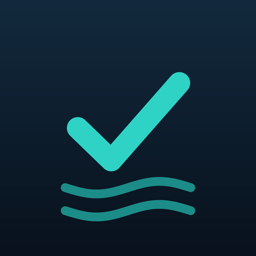
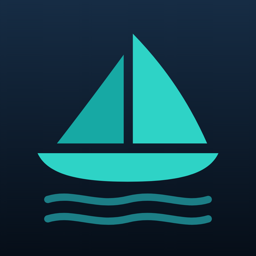
Gizlilik ve KVKK metinleri güncellendi; site ikonu yenilendi
- Anonim istatistik artık varsayılan açık ve Ayarlar'dan kapatılabiliyor;
  KVKK'da hukuki sebep açık rızadan meşru menfaate (m.5/2-f) çevrildi
- Konum ve bildirim izninin ilk açılışta sistem penceresiyle istendiği yazıldı
- Android / Google Play, Google adres çözümleme ve harita servisi eklendi
- Yedekten geri yüklemede ölçüm kimliğinin geri geldiği belirtildi
- Site ikonu ve favicon yeni uygulama ikonuyla değiştirildi

Changed region(s): [[0.125, 0.125, 0.875, 0.9062]]

diff --git a/privacy-tr.html b/privacy-tr.html
@@ -60,7 +60,7 @@
     <li>ViraCheck'te hesap yoktur; kayıt olmanız gerekmez.</li>
     <li>Oluşturduğunuz içerik — kontrol listeleri, seyir defteri, tekne bilgileri — yalnızca cihazınızda saklanır.</li>
     <li>Reklam ağı yoktur; verilerinizi satmıyoruz.</li>
-    <li>Yalnızca <strong>izin verirseniz</strong> anonim kullanım sayıları topluyoruz (kaç tekne, kaç sefer gibi). İsminiz, konumunuz ve defter içeriğiniz buna dahil değildir; izni istediğiniz zaman kapatabilirsiniz (bkz. 6. bölüm).</li>
+    <li>Anonim kullanım sayıları topluyoruz (kaç tekne, kaç sefer gibi). İsminiz, konumunuz ve defter içeriğiniz buna dahil değildir; ölçümü uygulama içinden <strong>istediğiniz zaman kapatabilirsiniz</strong> (bkz. 6. bölüm).</li>
   </ul>
 </div>
 
@@ -72,17 +72,18 @@
   <li>Tekne bilgileri</li>
   <li>Uygulama ayarları</li>
 </ul>
-<p>Bu veriler cihazınızdan çıkmaz; bize iletilmez. Cihazınızda iCloud yedeklemesi açıksa bu içerik Apple'ın yedeğine dahil olabilir ve bu durumda Apple'ın gizlilik politikasına tabi olur.</p>
+<p>Bu veriler cihazınızdan çıkmaz; bize iletilmez. Cihazınızda iCloud ya da Google yedeklemesi açıksa bu içerik Apple'ın veya Google'ın yedeğine dahil olabilir ve bu durumda ilgili şirketin gizlilik politikasına tabi olur.</p>
 
 <h2>2. Konum</h2>
-<p>Rüzgâr, dalga ve seyre uygunluk bilgisini bulunduğunuz mevkiye göre hesaplayabilmek için konum izni isteriz.</p>
+<p>Rüzgâr, dalga ve seyre uygunluk bilgisini bulunduğunuz mevkiye göre hesaplayabilmek için konum izni isteriz. İzin, uygulamayı ilk açtığınızda işletim sisteminin kendi izin penceresiyle sorulur.</p>
 <ul>
   <li>Tam konumunuz cihazınızda saklanmaz; konum geçmişiniz tutulmaz.</li>
   <li>Koordinatlarınız yalnızca tahmin ve koy sorgusu yapılırken Open-Meteo ile OpenStreetMap'e gönderilir.</li>
   <li>Yakındaki koy listesini her seferinde yeniden indirmemek için <strong>yaklaşık</strong> konumunuz (yaklaşık 1 km çözünürlükte) sonuçlarla birlikte cihazınızda önbelleğe alınır. Bu önbellek en fazla 12 bölgeyle sınırlıdır, cihazınızdan çıkmaz ve <em>Verileri sıfırla</em> ile silinir.</li>
-  <li>Bulunduğunuz yerin adını ekranda gösterebilmek için koordinatlar, cihazın işletim sistemi aracılığıyla Apple'ın adres çözümleme servisine iletilir.</li>
+  <li>Bulunduğunuz yerin adını ekranda gösterebilmek için koordinatlar, cihazın işletim sistemi aracılığıyla adres çözümleme servisine iletilir: iPhone ve iPad'de Apple'ın, Android'de Google'ın servisine.</li>
+  <li>Rota ekranındaki harita iPhone ve iPad'de Apple Haritalar, Android'de Google Haritalar ile çizilir. Harita görüntüleri bu servislerden indirildiği için haritanın gösterdiği bölge ilgili şirkete iletilir.</li>
   <li>İzin vermezseniz uygulamanın geri kalanı normal çalışır; yalnızca hava ve deniz durumu gösterilemez.</li>
-  <li>İzni istediğiniz zaman iOS <em>Ayarlar</em> üzerinden geri alabilirsiniz.</li>
+  <li>İzni istediğiniz zaman cihazınızın <em>Ayarlar</em> bölümünden geri alabilirsiniz.</li>
 </ul>
 
 <h2>3. Hava, deniz ve koy verileri</h2>
@@ -98,21 +99,22 @@
   <li>İş ortağına sizi tanımlayan hiçbir bilgi göndermeyiz; yalnızca bağlantının ViraCheck'ten geldiğini belirten bir ortaklık kimliği taşınır. İş ortağı kendi sitesinde çerez kullanabilir.</li>
   <li>Bazı ortaklara (SamBoat) yönlendirme, <strong>Awin</strong> ortaklık ağının alan adı üzerinden geçer; Viravira bağlantıları ise ortağın kendi kısa bağlantı adresinden geçer. Bu adımda ağ, tıklamayı hangi yayıncıya ait olduğunu kaydetmek için kendi çerezini yerleştirebilir. Bu ağlara da sizi tanımlayan bir bilgi göndermeyiz.</li>
   <li>Bu bağlantılardan yapılan kiralamalarda komisyon alabiliriz. Bu, gösterdiğimiz fiyatı değiştirmez.</li>
-  <li>Uygulama tarafında yalnızca <em>kaç kez</em> ve <em>hangi bölge kartına</em> dokunulduğu sayılır; bu da ancak 6. bölümdeki ölçüme izin verdiyseniz gönderilir.</li>
+  <li>Uygulama tarafında yalnızca <em>kaç kez</em> ve <em>hangi bölge kartına</em> dokunulduğu sayılır; bu da 6. bölümdeki ölçüm açıksa gönderilir.</li>
 </ul>
 
 <h2>5. Abonelik ve satın alma</h2>
-<p>ViraCheck Pro aboneliği App Store üzerinden satılır ve <a href="https://www.revenuecat.com">RevenueCat</a> ile yönetilir.</p>
+<p>ViraCheck Pro aboneliği iPhone ve iPad'de App Store, Android'de Google Play üzerinden satılır ve <a href="https://www.revenuecat.com">RevenueCat</a> ile yönetilir.</p>
 <ul>
-  <li>Ödeme bilgileriniz Apple tarafından işlenir ve bize hiçbir zaman iletilmez.</li>
+  <li>Ödeme bilgileriniz Apple ya da Google tarafından işlenir ve bize hiçbir zaman iletilmez.</li>
   <li>RevenueCat, abonelik durumunuzu takip edebilmek için rastgele üretilmiş anonim bir kullanıcı kimliğiyle satın alma bilgilerini (ürün, tarih, yenilenme durumu) ve cihaz türü, ülke gibi teknik bilgileri işler. Adınız veya e-posta adresiniz iletilmez.</li>
   <li>RevenueCat gizlilik politikası: <a href="https://www.revenuecat.com/privacy">revenuecat.com/privacy</a></li>
   <li>Apple Media Services gizlilik politikası: <a href="https://www.apple.com/legal/privacy/data/tr/app-store/">apple.com/legal/privacy/data/tr/app-store</a></li>
+  <li>Google gizlilik politikası: <a href="https://policies.google.com/privacy?hl=tr">policies.google.com/privacy</a></li>
 </ul>
 
 <h2>6. Anonim kullanım istatistiği</h2>
-<p>Uygulamayı nerelerde geliştirmemiz gerektiğini anlayabilmek için anonim kullanım sayıları topluyoruz. <strong>Bu yalnızca sizin onayınızla yapılır:</strong> uygulama bir kez açıkça sorar, "Hayır" derseniz tek bir istek bile gönderilmez ve bir daha sorulmaz.</p>
-<p>İzin verirseniz günde en fazla bir kez şunlar gönderilir:</p>
+<p>Uygulamayı nerelerde geliştirmemiz gerektiğini anlayabilmek için anonim kullanım sayıları topluyoruz. Ölçüm <strong>varsayılan olarak açıktır</strong> ve <strong>istediğiniz zaman kapatabilirsiniz</strong>; kapattığınızda tek bir istek bile gönderilmez.</p>
+<p>Ölçüm açıkken günde en fazla bir kez şunlar gönderilir:</p>
 <ul>
   <li>Kaç tekne, kaç sefer kaydınız olduğu, toplam deniz mili, kaç kontrol listesi tamamladığınız</li>
   <li>Kiralama bağlantısına kaç kez ve hangi bölge kartına dokunduğunuz</li>
@@ -120,13 +122,14 @@
   <li>Pro aboneliğiniz olup olmadığı, uygulama sürümü, platform (iOS/Android) ve arayüz dili</li>
   <li>Kurulumun ilk ve son görülme tarihi</li>
 </ul>
-<p>Bunlara ek olarak, uygulama <strong>açıkken dakikada en fazla bir kez</strong> yalnızca bir <em>son etkinlik zaman damgası</em> yazılır. Bu, "şu anda kaç kurulum uygulamayı kullanıyor" sorusunu yanıtlamak içindir; başka hiçbir veri taşımaz ve ölçüme izin vermediyseniz hiç gönderilmez.</p>
+<p>Bunlara ek olarak, uygulama <strong>açıkken dakikada en fazla bir kez</strong> yalnızca bir <em>son etkinlik zaman damgası</em> yazılır. Bu, "şu anda kaç kurulum uygulamayı kullanıyor" sorusunu yanıtlamak içindir; başka hiçbir veri taşımaz ve ölçüm kapalıysa hiç gönderilmez.</p>
 <p><strong>Gönderilmeyenler:</strong> adınız, e-postanız, tekne adı, MMSI, çağrı işareti, sefer notlarınız, liman ve koy adları, <strong>konumunuz</strong>, ne aradığınız. Defterinizin ve teknenizin içeriği cihazınızda kalır.</p>
-<p>Kayıtlar, bu kurulum için rastgele üretilen bir kimliğe bağlanır. Bu kimlik Apple Kimliğinizle, cihaz numaranızla veya reklam tanımlayıcısıyla ilişkili değildir; uygulamayı silip yeniden kurarsanız bağ kopar ve yeni bir kimlik oluşur. Yani kişileri değil kurulumları sayıyoruz ve kullanıcıları cihazlar ya da uygulamalar arasında izlemiyoruz.</p>
+<p>Kayıtlar, bu kurulum için rastgele üretilen bir kimliğe bağlanır. Bu kimlik Apple Kimliğinizle, Google hesabınızla, cihaz numaranızla veya reklam tanımlayıcısıyla ilişkili değildir; uygulamayı silip yeniden kurarsanız bağ kopar ve yeni bir kimlik oluşur. Telefonunuzu iCloud ya da Google yedeğinden geri yüklerseniz kimlik de uygulama verileriyle birlikte geri gelir; bağı koparmak için ölçümü kapatmanız yeterlidir. Yani kişileri değil kurulumları sayıyoruz ve kullanıcıları cihazlar ya da uygulamalar arasında izlemiyoruz.</p>
 <p>Veriler Google'ın <a href="https://firebase.google.com">Firebase</a> altyapısında, <strong>Avrupa Birliği</strong> bölgesinde (<code>europe-west</code>) saklanır. Yalnızca ViraCheck geliştiricisi erişebilir; üçüncü taraflara aktarılmaz, satılmaz, reklam amacıyla kullanılmaz. Google'ın gizlilik politikası: <a href="https://firebase.google.com/support/privacy">firebase.google.com/support/privacy</a></p>
-<p>İzni istediğiniz zaman uygulama içinde <em>Tekne → Anonim istatistik</em> anahtarından kapatabilirsiniz. Kapattığınızda cihazdaki ölçüm kimliği ve sayaçlar silinir, gönderim durur.</p>
+<p>Ölçümü istediğiniz zaman uygulama içinde <em>Tekne → Bildirim → Anonim istatistik</em> anahtarından kapatabilirsiniz. Kapattığınızda cihazdaki ölçüm kimliği ve sayaçlar silinir, gönderim durur.</p>
 
 <h2>7. Bildirimler</h2>
+<p>Bildirim izni, uygulamayı ilk açtığınızda işletim sisteminin kendi izin penceresiyle sorulur. İzin vermeniz bildirimleri kendiliğinden açmaz; uygun gün hatırlatmasını siz açtığınızda kullanılır. İzni istediğiniz zaman cihaz ayarlarından geri alabilirsiniz.</p>
 <p>Uygulama yalnızca cihaz üzerinde çalışan yerel bildirimler kullanır (örneğin uygun gün hatırlatması). Uzaktan bildirim (push) altyapısı uygulamada devre dışı bırakılmıştır; bildirim gönderebilmek için hiçbir sunucuya veri iletilmez.</p>
 
 <h2>8. Çocukların gizliliği</h2>
@@ -135,7 +138,7 @@
 <h2>9. Verilerinizi silme</h2>
 <p>Uygulama içindeki ilgili bölümlerden kontrol listelerinizi ve tekne bilgilerinizi sıfırlayabilirsiniz. Tüm yerel verileri kalıcı olarak silmek için uygulamayı cihazınızdan kaldırmanız yeterlidir.</p>
 <p>Anonim istatistik anahtarını kapatmak cihazdaki ölçüm kimliğini siler. Daha önce gönderilmiş anonim kayıtların silinmesini isterseniz aşağıdaki adrese yazın; kayıtlar kurulum kimliğine bağlı olduğu için kimliğinizi iletmeniz gerekebilir. Dilerseniz kaydın tamamını silmemizi de isteyebilirsiniz.</p>
-<p>Aboneliğinizi iOS <em>Ayarlar → Apple Kimliğiniz → Abonelikler</em> yolundan yönetebilir veya iptal edebilirsiniz. Abonelik kayıtları Apple ve RevenueCat tarafında tutulur.</p>
+<p>Aboneliğinizi iPhone ve iPad'de <em>Ayarlar → Apple Kimliğiniz → Abonelikler</em>, Android'de <em>Google Play → Profil → Ödemeler ve abonelikler</em> yolundan yönetebilir veya iptal edebilirsiniz. Abonelik kayıtları Apple ya da Google ve RevenueCat tarafında tutulur.</p>
 
 <h2>10. Bu politikadaki değişiklikler</h2>
 <p>Politika güncellenirse bu sayfanın üstündeki "son güncelleme" tarihi değişir. Önemli değişikliklerde uygulama içinde ayrıca bilgilendirme yapılır.</p>

diff --git a/privacy-en.html b/privacy-en.html
@@ -59,7 +59,7 @@
     <li>ViraCheck has no accounts — you never sign up.</li>
     <li>Everything you create — checklists, logbook, boat details — stays on your device.</li>
     <li>There are no ad networks, and we never sell your data.</li>
-    <li>We collect anonymous usage counts (how many boats, how many trips) <strong>only if you allow it</strong>. Your name, your location and your logbook content are never included, and you can turn it off at any time (see section 6).</li>
+    <li>We collect anonymous usage counts (how many boats, how many trips). Your name, your location and your logbook content are never included, and you can <strong>turn it off at any time</strong> inside the app (see section 6).</li>
   </ul>
 </div>
 
@@ -71,17 +71,18 @@
   <li>Boat details</li>
   <li>App settings</li>
 </ul>
-<p>This data never leaves your device and is never sent to us. If iCloud Backup is enabled on your device, this content may be included in Apple's backup, in which case Apple's privacy policy applies to it.</p>
+<p>This data never leaves your device and is never sent to us. If iCloud or Google backup is enabled on your device, this content may be included in Apple's or Google's backup, in which case that company's privacy policy applies to it.</p>
 
 <h2>2. Location</h2>
-<p>We ask for location permission so the app can calculate wind, wave, and go/no-go information for where you actually are.</p>
+<p>We ask for location permission so the app can calculate wind, wave, and go/no-go information for where you actually are. The permission is requested through your operating system's own prompt when you first open the app.</p>
 <ul>
   <li>Your precise location is not stored on your device, and no location history is kept.</li>
   <li>Your coordinates are sent to Open-Meteo and OpenStreetMap only while a forecast or cove request is being made.</li>
   <li>So the nearby cove list is not re-fetched every time, an <strong>approximate</strong> location (about 1 km resolution) is cached on your device alongside the results. This cache is capped at 12 areas, never leaves your device, and is removed by <em>Reset data</em>.</li>
-  <li>To display the name of your location on screen, the coordinates are passed to Apple's geocoding service through your device's operating system.</li>
+  <li>To display the name of your location on screen, the coordinates are passed to a geocoding service through your device's operating system: Apple's on iPhone and iPad, Google's on Android.</li>
+  <li>The map on the route screen is drawn with Apple Maps on iPhone and iPad and with Google Maps on Android. Because map imagery is downloaded from these services, the area the map shows is passed to that company.</li>
   <li>If you decline the permission, the rest of the app works normally — only the weather and sea state cannot be shown.</li>
-  <li>You can revoke the permission at any time in iOS <em>Settings</em>.</li>
+  <li>You can revoke the permission at any time in your device's <em>Settings</em>.</li>
 </ul>
 
 <h2>3. Weather, sea state and cove data</h2>
@@ -97,21 +98,22 @@
   <li>We send the partner nothing that identifies you; the link carries only an affiliate identifier indicating it came from ViraCheck. The partner may set cookies on its own site.</li>
   <li>For some partners (SamBoat) the redirect passes through the <strong>Awin</strong> affiliate network's domain; Viravira links pass through the partner's own short-link domain. At that step the network may set its own cookie to record which publisher the click belongs to. We send these networks nothing that identifies you either.</li>
   <li>We may earn a commission on charters booked through these links. This does not change the price you see.</li>
-  <li>On the app side we only count <em>how many times</em> and <em>which regional card</em> was tapped, and even that is sent only if you allowed the measurement described in section 6.</li>
+  <li>On the app side we only count <em>how many times</em> and <em>which regional card</em> was tapped, and even that is sent only while the measurement described in section 6 is switched on.</li>
 </ul>
 
 <h2>5. Subscriptions and purchases</h2>
-<p>The ViraCheck Pro subscription is sold through the App Store and managed with <a href="https://www.revenuecat.com">RevenueCat</a>.</p>
+<p>The ViraCheck Pro subscription is sold through the App Store on iPhone and iPad and through Google Play on Android, and managed with <a href="https://www.revenuecat.com">RevenueCat</a>.</p>
 <ul>
-  <li>Your payment details are handled by Apple and are never shared with us.</li>
+  <li>Your payment details are handled by Apple or Google and are never shared with us.</li>
   <li>To track your subscription status, RevenueCat processes purchase information (product, date, renewal state) together with technical details such as device type and country, under a randomly generated anonymous user ID. Your name and email address are not sent.</li>
   <li>RevenueCat privacy policy: <a href="https://www.revenuecat.com/privacy">revenuecat.com/privacy</a></li>
   <li>Apple Media Services privacy policy: <a href="https://www.apple.com/legal/privacy/data/en/app-store/">apple.com/legal/privacy/data/en/app-store</a></li>
+  <li>Google privacy policy: <a href="https://policies.google.com/privacy">policies.google.com/privacy</a></li>
 </ul>
 
 <h2>6. Anonymous usage statistics</h2>
-<p>To understand where the app needs work, we collect anonymous usage counts. <strong>This happens only with your consent:</strong> the app asks once, plainly. If you say no, not a single request is sent and you are never asked again.</p>
-<p>If you allow it, the following is sent at most once a day:</p>
+<p>To understand where the app needs work, we collect anonymous usage counts. The measurement is <strong>on by default</strong> and you can <strong>turn it off at any time</strong>; once it is off, not a single request is sent.</p>
+<p>While it is on, the following is sent at most once a day:</p>
 <ul>
   <li>How many boats and trips you have recorded, total nautical miles, how many checklists you completed</li>
   <li>How many times you tapped a charter link, and which regional card</li>
@@ -119,13 +121,14 @@
   <li>Whether you have a Pro subscription, the app version, platform (iOS/Android) and interface language</li>
   <li>The first and last date this installation was seen</li>
 </ul>
-<p>In addition, while the app is <strong>open</strong>, a <em>last-active timestamp</em> is written at most once a minute. It exists to answer "how many installations are using the app right now" and carries no other data; nothing is sent at all if you did not allow the measurement.</p>
+<p>In addition, while the app is <strong>open</strong>, a <em>last-active timestamp</em> is written at most once a minute. It exists to answer "how many installations are using the app right now" and carries no other data; nothing is sent at all while the measurement is off.</p>
 <p><strong>Never sent:</strong> your name, your email, boat name, MMSI, call sign, your trip notes, port and cove names, <strong>your location</strong>, or what you searched for. Your logbook and boat details stay on your device.</p>
-<p>Records are tied to an identifier generated at random for this installation. It is not linked to your Apple Account, device serial number, or advertising identifier; if you delete and reinstall the app, the link is broken and a new identifier is created. In other words we count installations, not people, and we do not track users across apps or devices.</p>
+<p>Records are tied to an identifier generated at random for this installation. It is not linked to your Apple Account, Google account, device serial number, or advertising identifier; if you delete and reinstall the app, the link is broken and a new identifier is created. If you restore your phone from an iCloud or Google backup, the identifier comes back along with the app's data; switching the measurement off is enough to break the link. In other words we count installations, not people, and we do not track users across apps or devices.</p>
 <p>The data is stored on Google's <a href="https://firebase.google.com">Firebase</a> infrastructure in the <strong>European Union</strong> region (<code>europe-west</code>). Only the ViraCheck developer can access it; it is not shared with third parties, sold, or used for advertising. Google's privacy policy: <a href="https://firebase.google.com/support/privacy">firebase.google.com/support/privacy</a></p>
-<p>You can turn it off at any time in the app under <em>Boat → Anonymous statistics</em>. Turning it off deletes the measurement identifier and counters from your device and stops any further sending.</p>
+<p>Where the GDPR applies, the legal basis for this measurement is our legitimate interest in improving the app (Art. 6(1)(f)); you can object at any time simply by switching it off. You can turn it off in the app under <em>Boat → Notifications → Anonymous statistics</em>. Turning it off deletes the measurement identifier and counters from your device and stops any further sending.</p>
 
 <h2>7. Notifications</h2>
+<p>Notification permission is requested through your operating system's own prompt when you first open the app. Granting it does not switch any notification on by itself; it is used only once you turn on the good-conditions reminder. You can withdraw it at any time in your device settings.</p>
 <p>The app uses only local notifications that run on your device (for example, a good-conditions reminder). Remote push infrastructure is disabled in the app; no data is sent to any server in order to deliver a notification.</p>
 
 <h2>8. Children's privacy</h2>
@@ -134,7 +137,7 @@
 <h2>9. Deleting your data</h2>
 <p>You can reset your checklists and boat details from the relevant sections inside the app. To permanently erase all local data, simply remove the app from your device.</p>
 <p>Turning off the anonymous statistics switch deletes the measurement identifier from your device. If you want anonymous records already sent to be deleted, write to the address below; because records are tied to an installation identifier, you may need to provide yours. You may also ask us to delete the record entirely.</p>
-<p>You can manage or cancel your subscription in iOS <em>Settings → your Apple Account → Subscriptions</em>. Subscription records are retained by Apple and RevenueCat.</p>
+<p>You can manage or cancel your subscription on iPhone and iPad in <em>Settings → your Apple Account → Subscriptions</em>, and on Android in <em>Google Play → Profile → Payments &amp; subscriptions</em>. Subscription records are retained by Apple or Google and RevenueCat.</p>
 
 <h2>10. Changes to this policy</h2>
 <p>If this policy is updated, the "last updated" date at the top of this page will change. For significant changes, we will also notify you inside the app.</p>

diff --git a/kvkk-tr.html b/kvkk-tr.html
@@ -69,7 +69,7 @@ ViraCheck mobil uygulamasını kullanırken hangi kişisel verilerinizin işlend
   <ul>
     <li>ViraCheck'te <strong>hesap yoktur</strong>; ad, e-posta, telefon gibi kimlik bilgisi istemiyoruz.</li>
     <li>Kontrol listeleriniz, seyir defteriniz ve tekne bilgileriniz <strong>yalnızca cihazınızda</strong> kalır; bize hiç ulaşmaz.</li>
-    <li>Bize ulaşan tek veri, <strong>açık rızanızla</strong> gönderilen anonim kullanım sayıları ve hizmetin çalışması için gereken konum koordinatlarıdır.</li>
+    <li>Bize ulaşan tek veri, istediğiniz an kapatabileceğiniz anonim kullanım sayıları ve hizmetin çalışması için gereken konum koordinatlarıdır.</li>
     <li>Kişisel veri <strong>satmıyoruz</strong>, reklam ağı kullanmıyoruz.</li>
   </ul>
 </div>
@@ -77,7 +77,7 @@ ViraCheck mobil uygulamasını kullanırken hangi kişisel verilerinizin işlend
 <h2>1. Veri sorumlusunun kimliği</h2>
 <table>
   <tr><th>Veri sorumlusu</th><td>Ege Seymen (gerçek kişi)</td></tr>
-  <tr><th>Uygulama</th><td>ViraCheck — iOS ve iPadOS</td></tr>
+  <tr><th>Uygulama</th><td>ViraCheck — iOS, iPadOS ve Android</td></tr>
   <tr><th>İletişim</th><td><a href="mailto:egeseymen@icloud.com">egeseymen@icloud.com</a></td></tr>
   <tr><th>İnternet sitesi</th><td><a href="https://egesey.github.io/viracheck/">egesey.github.io/viracheck</a></td></tr>
 </table>
@@ -93,7 +93,7 @@ içerik (kontrol listeleri, seyir defteri, tekne bilgileri, ayarlar) tarafımız
     <th>Konum verisi<br><span style="font-weight:400;color:var(--muted)">enlem/boylam</span></th>
     <td>
       Bulunduğunuz mevkiye göre rüzgâr, dalga ve deniz durumu hesaplamak ve yakındaki koy/plaj listesini üretmek için.<br>
-      <strong>Hukuki sebep:</strong> KVKK m.5/1 — <strong>açık rıza</strong> (iOS konum izni). İzin vermezseniz
+      <strong>Hukuki sebep:</strong> KVKK m.5/1 — <strong>açık rıza</strong> (işletim sisteminin konum izni; onay ekranı geçilmeden istenmez). İzin vermezseniz
       uygulamanın geri kalanı çalışır, yalnızca hava ve koy özellikleri kapanır.<br>
       <strong>Saklama:</strong> Tam konumunuz saklanmaz, konum geçmişi tutulmaz. Koy listesini tekrar indirmemek
       için yaklaşık konumunuz (~1 km çözünürlükte) yalnızca cihazınızda, en fazla 12 bölge olacak şekilde önbelleğe alınır.
@@ -103,8 +103,10 @@ içerik (kontrol listeleri, seyir defteri, tekne bilgileri, ayarlar) tarafımız
     <th>Anonim kullanım sayıları<br><span style="font-weight:400;color:var(--muted)">kurulum kimliği + sayaçlar</span></th>
     <td>
       Uygulamanın hangi bölümlerinin kullanıldığını anlamak ve geliştirme önceliklerini belirlemek için.<br>
-      <strong>Hukuki sebep:</strong> KVKK m.5/1 — <strong>açık rıza</strong>. Uygulama bir kez açıkça sorar;
-      onaylamazsanız tek bir istek bile gönderilmez. İzni Tekne → Ayarlar'dan istediğiniz an kapatabilirsiniz.<br>
+      <strong>Hukuki sebep:</strong> KVKK m.5/2-f — <strong>meşru menfaat</strong> (uygulamanın geliştirilmesi). Yalnızca
+      sayılar işlendiği ve kimlik, konum ya da içerik gönderilmediği için temel hak ve özgürlüklerinize zarar vermez.
+      Ölçüm varsayılan olarak açıktır; Tekne → Bildirim → Anonim istatistik anahtarından istediğiniz an kapatabilirsiniz,
+      kapattığınızda tek bir istek bile gönderilmez.<br>
       <strong>Kapsam:</strong> Kurulum başına rastgele üretilen bir kimlik; kaç tekne/sefer kaydınız olduğu, toplam
       deniz mili, tamamlanan liste sayısı, hangi sekmelerin kaç kez açıldığı, kiralama bağlantılarına kaç kez ve
       hangi bölge kartına dokunulduğu, abonelik ekranı görüntülemeleri, Pro olup olmadığınız, uygulama sürümü,
@@ -120,7 +122,7 @@ içerik (kontrol listeleri, seyir defteri, tekne bilgileri, ayarlar) tarafımız
       ViraCheck Pro aboneliğinin durumunu doğrulamak ve satın alımları geri yüklemek için.<br>
       <strong>Hukuki sebep:</strong> KVKK m.5/2-c — <strong>sözleşmenin kurulması veya ifası</strong>.<br>
       <strong>Kapsam:</strong> Rastgele üretilmiş anonim bir kullanıcı kimliği, satın alınan ürün, tarih ve
-      yenilenme durumu ile cihaz türü/ülke gibi teknik bilgiler. Ödeme bilgileriniz Apple tarafından işlenir,
+      yenilenme durumu ile cihaz türü/ülke gibi teknik bilgiler. Ödeme bilgileriniz Apple ya da Google tarafından işlenir,
       bize hiçbir zaman iletilmez.
     </td>
   </tr>
@@ -139,13 +141,15 @@ hizmet sağlayıcılara aktarım yapılır:</p>
 <table>
   <tr><th>Open-Meteo</th><td>Hava ve deniz tahmini. Yalnızca koordinat ve istenen tahmin alanları iletilir. (Almanya)</td></tr>
   <tr><th>OpenStreetMap / Overpass API</th><td>Koy ve plaj listesi. Yalnızca koordinat ve arama yarıçapı iletilir. Uygulamaya gömülü bölgelerde hiç istek yapılmaz. (AB)</td></tr>
-  <tr><th>Apple</th><td>Uygulama dağıtımı, abonelik tahsilatı ve koordinatın yer adına çevrilmesi. (ABD/AB)</td></tr>
-  <tr><th>Google — Firebase</th><td>Anonim kullanım sayılarının saklanması. Veritabanı <strong>Avrupa (eur3)</strong> bölgesinde tutulur. Yalnızca açık rıza verdiyseniz.</td></tr>
+  <tr><th>Apple</th><td>iPhone ve iPad'de uygulama dağıtımı, abonelik tahsilatı, koordinatın yer adına çevrilmesi ve rota haritası. (ABD/AB)</td></tr>
+  <tr><th>Google</th><td>Android'de uygulama dağıtımı, abonelik tahsilatı, koordinatın yer adına çevrilmesi ve rota haritası. (ABD/AB)</td></tr>
+  <tr><th>Google — Firebase</th><td>Anonim kullanım sayılarının saklanması. Veritabanı <strong>Avrupa (eur3)</strong> bölgesinde tutulur. Ölçümü kapattıysanız aktarım yapılmaz.</td></tr>
   <tr><th>RevenueCat</th><td>Abonelik durumunun doğrulanması. (ABD)</td></tr>
   <tr><th>Awin ve iş ortağı platformlar</th><td>Kiralama bağlantısına dokunduğunuzda tarayıcı, ortaklık ağının (Awin) alan adı üzerinden iş ortağının sayfasına yönlendirilir. Bu sırada ağ ve iş ortağı kendi çerezlerini yerleştirebilir. Ortaklara sizi tanımlayan bilgi göndermeyiz; yalnızca bağlantının ViraCheck'ten geldiğini belirten ortaklık kimliği taşınır.</td></tr>
 </table>
 <p>Bu sağlayıcıların bir kısmı yurt dışında bulunduğundan, veriler KVKK m.9 kapsamında yurt dışına aktarılmaktadır.
-Aktarım, açık rızanızın bulunduğu hâllerde rızaya; abonelik gibi hâllerde ise sözleşmenin ifası şartına dayanır.</p>
+Aktarım, konum gibi açık rızanızın bulunduğu hâllerde rızaya; abonelik gibi hâllerde sözleşmenin ifası şartına;
+anonim kullanım sayılarında ise KVKK m.9'da öngörülen uygun güvencelere dayanır.</p>
 
 <h2>4. Kişisel veri toplamanın yöntemi</h2>
 <p>Kişisel verileriniz, ViraCheck mobil uygulaması üzerinden <strong>elektronik ortamda ve otomatik yollarla</strong>
@@ -154,8 +158,8 @@ toplanır. Fiziki ortamda veri toplanmaz; çağrı merkezi, form veya kayıt ekr
 <h2>5. Saklama süresi</h2>
 <ul>
   <li><strong>Cihazınızdaki içerik:</strong> siz silene veya uygulamayı kaldırana kadar.</li>
-  <li><strong>Anonim kullanım kayıtları:</strong> ölçümü kapattığınızda cihazdaki kimlik silinir; sunucudaki kaydın silinmesini talep edebilirsiniz.</li>
-  <li><strong>Abonelik kayıtları:</strong> Apple ve RevenueCat'in kendi saklama süreleri boyunca.</li>
+  <li><strong>Anonim kullanım kayıtları:</strong> ölçümü kapattığınızda cihazdaki kimlik silinir; sunucudaki kaydın silinmesini talep edebilirsiniz. Telefon iCloud ya da Google yedeğinden geri yüklenirse kimlik de uygulama verileriyle birlikte geri gelir.</li>
+  <li><strong>Abonelik kayıtları:</strong> Apple ya da Google ve RevenueCat'in kendi saklama süreleri boyunca.</li>
   <li><strong>E-posta yazışmaları:</strong> talebin sonuçlanmasından sonra makul süre içinde.</li>
 </ul>
 
